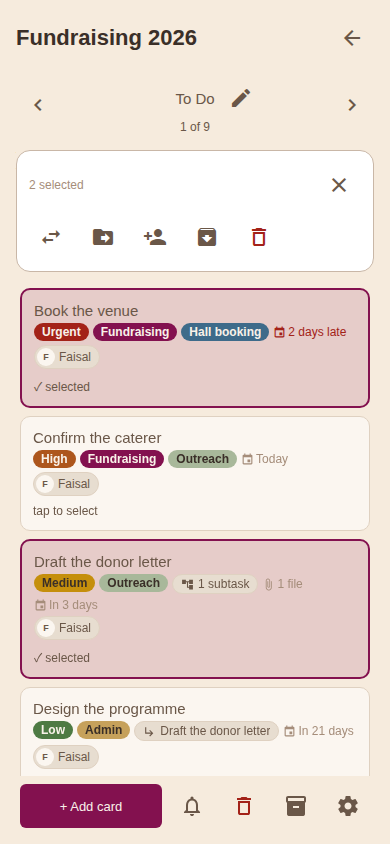
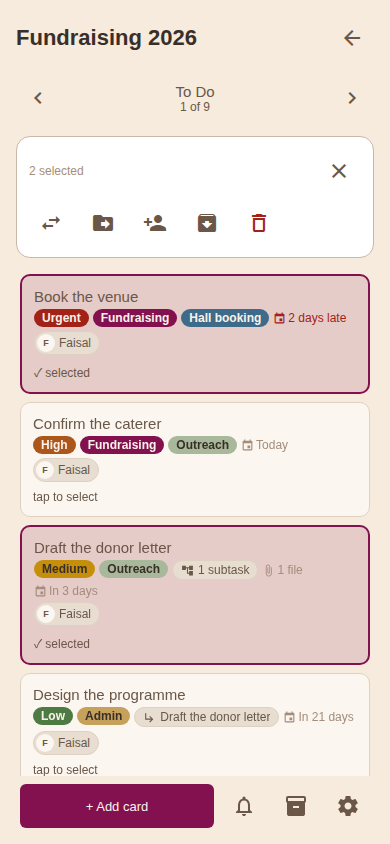
docs: films and pictures for v0.22.0
Every help film re-recorded on main and published (52 cuts, each file
checked against what was served); five narration lines rendered anew
(lanes, board-settings). The manual's pictures retaken; kept those with
a real change: the lane board as a grid, the column headings without
their pencil and delete, the bin in Board settings > Columns. The rest
moved only by dates.

diff --git a/docs/PHASE_STATUS.md b/docs/PHASE_STATUS.md
@@ -59,18 +59,13 @@ When a release changes what an old build gets wrong, raise the version floor
 to it last, once the web, Play and TestFlight have it (`docs/DEPLOY.md`
 § Retiring old builds).
 
-**Owed now: the rows below.** v0.21.0 recorded every film (`roles` and `lanes`
-with new narration), retook the manual's pictures and rendered its PDF at
-its release (2026-11-19). A change that moves a screen a film or a picture
-shows adds it here:
+**Owed now: nothing.** v0.22.0 recorded every film (`lanes` and
+`board-settings` with new narration), retook the manual's pictures and
+rendered its PDF at its release (2026-11-19). A change that moves a screen a
+film or a picture shows adds it here:
 
 | Film or picture | What it lacks |
 |---|---|
-| `lanes` film, both cuts (two lines reworded, the add step re-scripted for the computer's lane +; render their narration); `overview` film, computer cut where it opens a lane board; `lanes-wide` picture | The wide board with lanes is a grid: lanes as rows, frozen headings and lane names, one bell each, a + on each heading |
-| Film `board-settings` | Deleting moves from the board to the Columns page: a new line deletes the column just added with its bin, and the closing line about deleting on the board is gone. New narration; both cuts. |
-| Films `new-board`, `clone-board`, `details`, `board-people`, `board-archive` | Shot as a board's owner, so their board frames show a pencil, and a delete, on each column heading; the board has neither now. Both cuts. |
-| Pictures `columns-phone`, `columns-wide` | Each column has a bin beside its pencil. |
-| Pictures `board-phone`, `board-wide`, `lanes-phone`, `lanes-wide`, `bulk-phone`, `bulk-wide` | Taken as an admin, so each column heading shows a pencil and a delete; the board has neither now. |
 
 ## What works today (2026-10-16)
 
